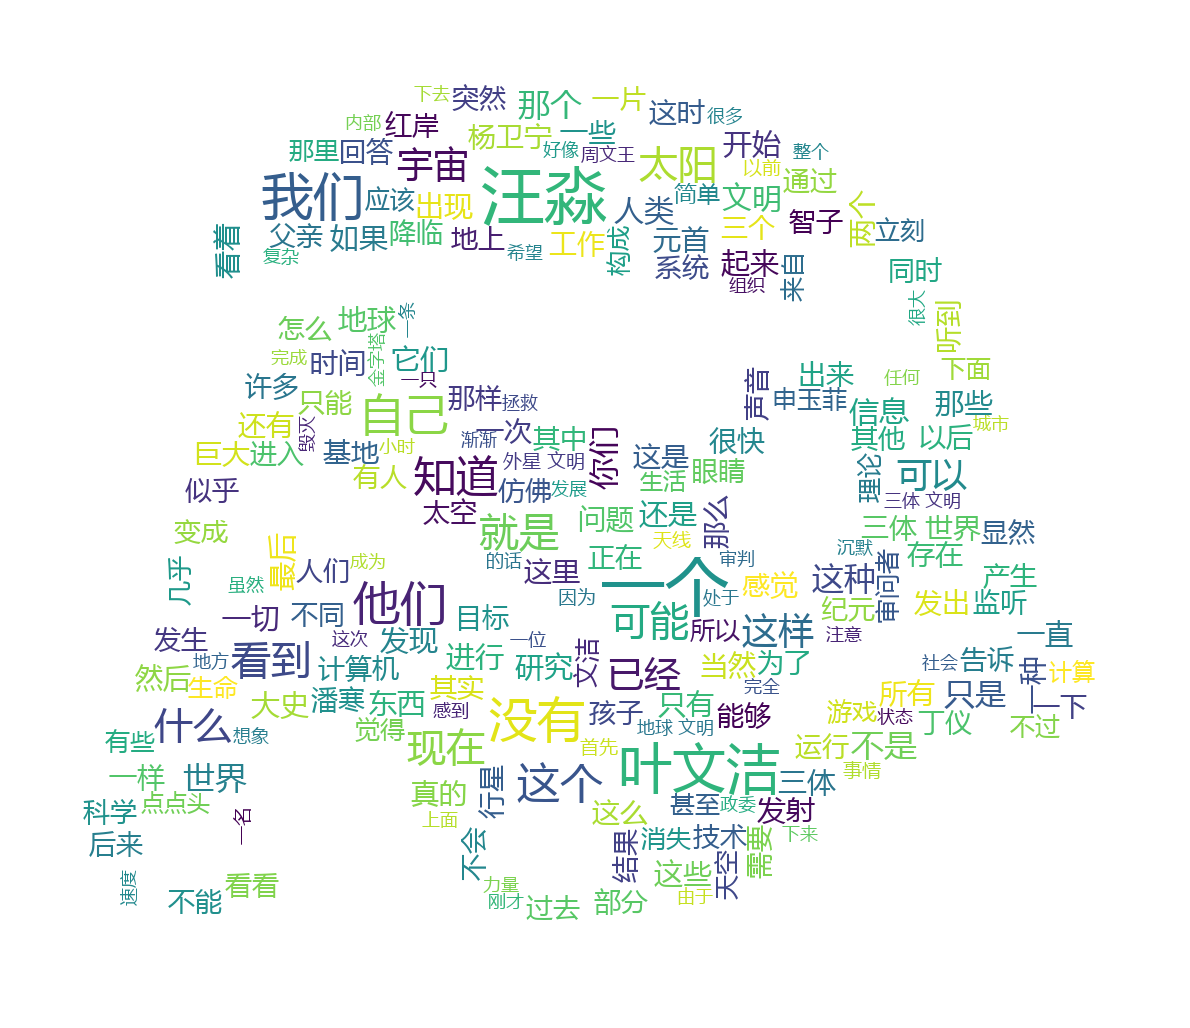
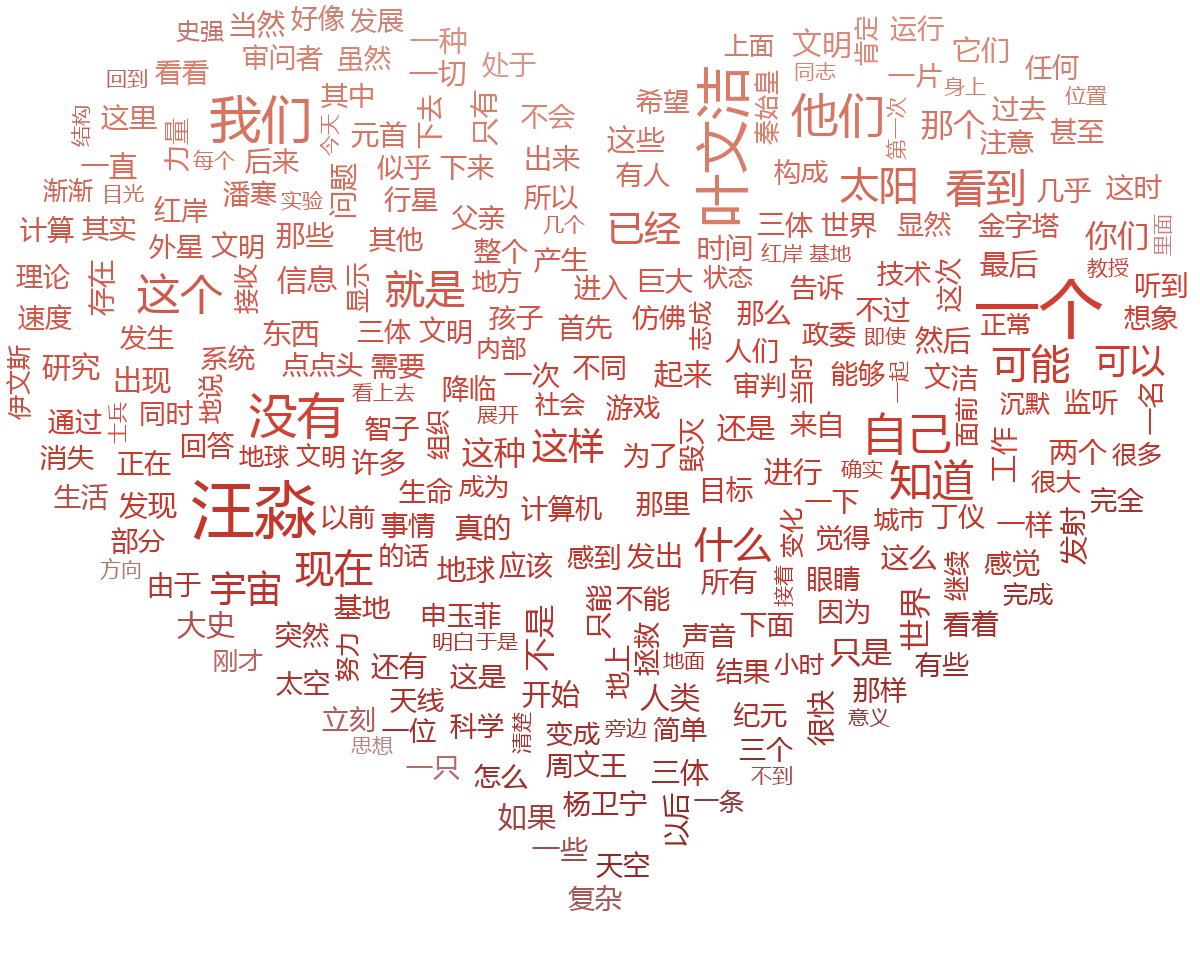
根据背景图的颜色，做文字的颜色

Changed region(s): [[0.0, 0.0, 0.995, 0.9687], [0.1555, 0.8476, 0.2487, 0.9081]]

diff --git a/pic_word.py b/pic_word.py
@@ -1,5 +1,6 @@
 # 生成图云
 from random import random
+from scipy.misc import imread  # 获取颜色
 import matplotlib.pyplot as plt
 import jieba  # 辅助库，把不必要的词语剔除
 from wordcloud import WordCloud, ImageColorGenerator
@@ -18,15 +19,20 @@ text = text.replace(u"元首说", u"元首")
 cut_text = jieba.cut(text)
 reslt = '/'.join(cut_text)  # 必须用符号分开
 # 初始化背景图
-image = Image.open("D:\Python_project\PythonPractice\mask1.png")
-graph = np.array(image)
-
+# image = Image.open("D:\Python_project\PythonPractice\mask.jpg")
+# graph = np.array(image)
+graph = imread(r"D:\Python_project\PythonPractice\mask.jpg")
+# 获取图片的颜色作为文字颜色
+image_colors = ImageColorGenerator(graph)
 # 生成词云图，这里需要注意的是WordCloud默认不支持中文，所以这里需已下载好的中文字库
-wc = WordCloud(font_path=r"D:\Python_project\PythonPractice\msyh.ttf", width=600, height=600, max_font_size=64
-               , max_words=300, min_font_size=18, background_color='white', mask=graph, mode='RGBA')
+wc = WordCloud(font_path=r"D:\Python_project\PythonPractice\msyh.ttf", width=600, height=600, margin=10,
+               max_font_size=64
+               , max_words=300, color_func=image_colors, min_font_size=18, background_color='white', mask=graph,
+               mode='RGBA')
 wc.generate(reslt)
 
 wc.to_file("D:\Python_project\PythonPractice\wordcloud.png")
+
 # 显示图片
 plt.figure()
 plt.title("词云图")  # 指定名称
